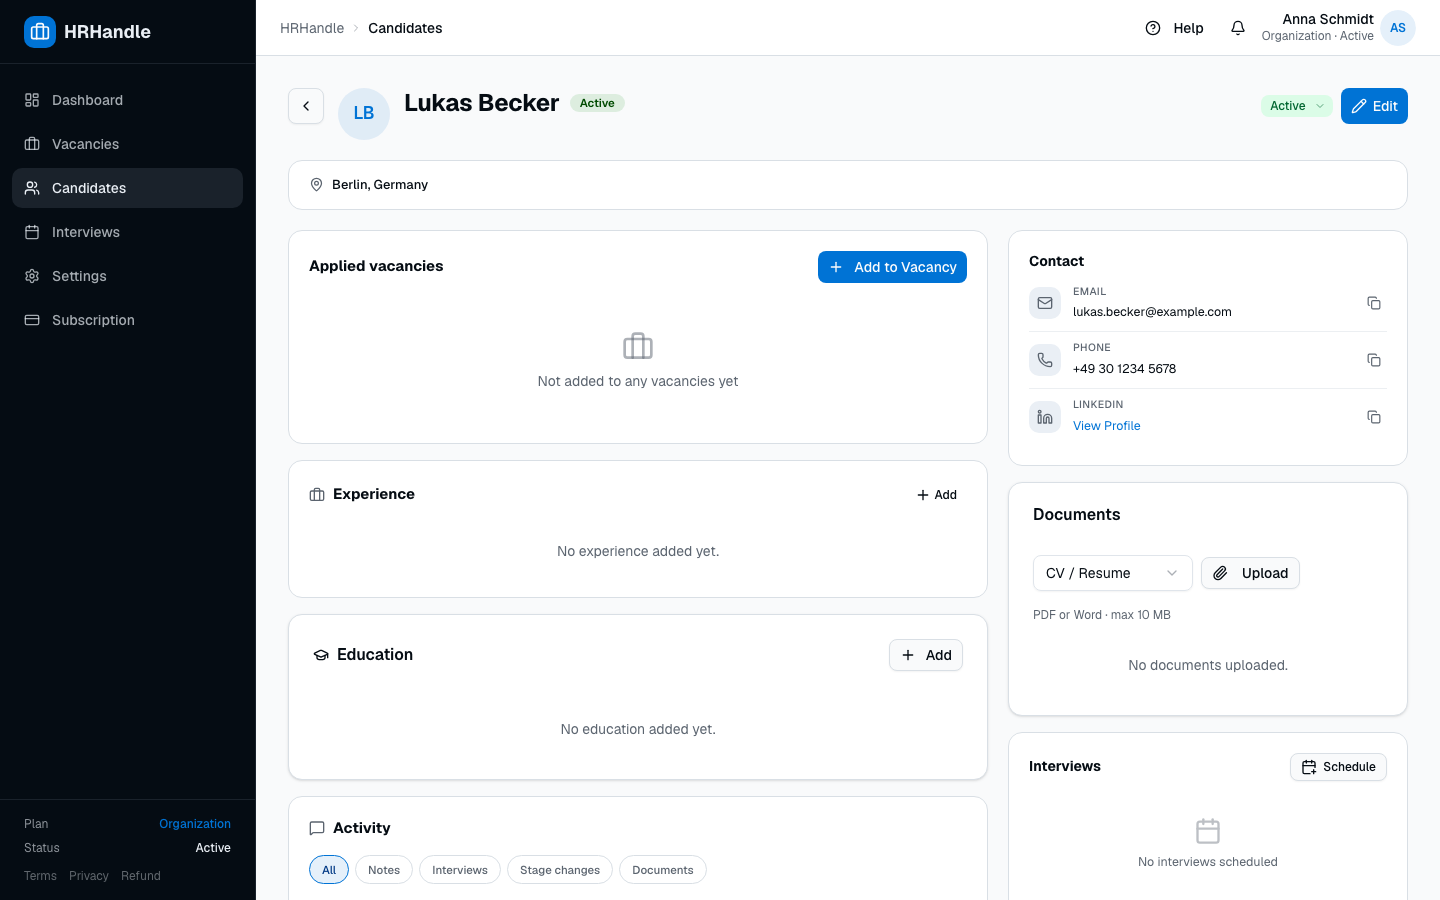
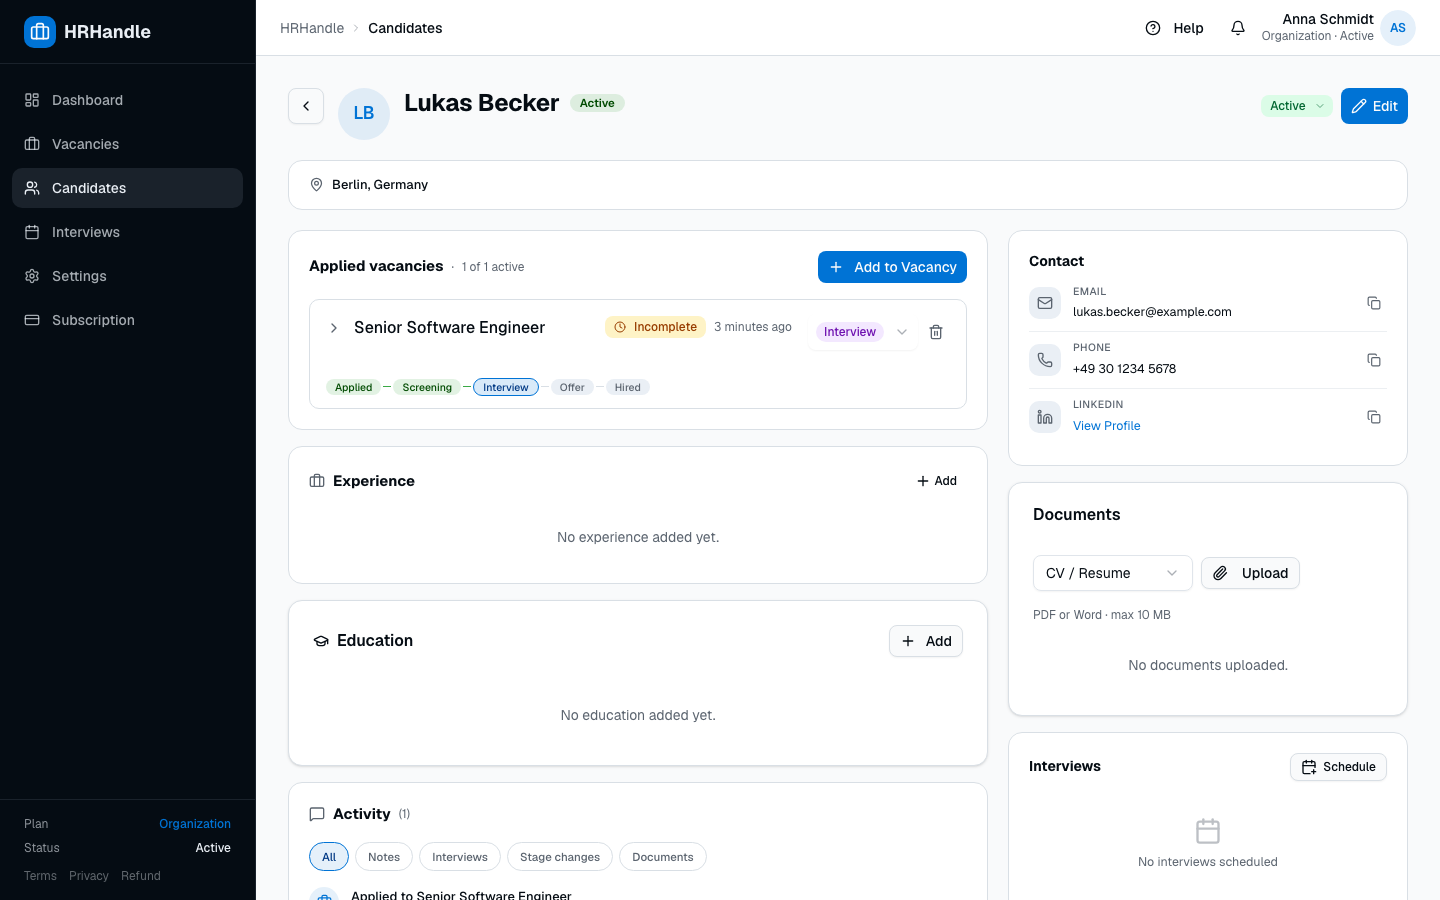
Add pipeline-kanban guide with overview screenshot
- Seed: distribute the four demo candidates across the Senior Software
  Engineer vacancy's pipeline (Applied/Screening/Interview/Offer)
  so the Kanban board has cards in every visible column. Idempotent.
- Guide covers stages, drag-drop, rejection flow, and the hired/general
  status sync.
- Skipping the rejection-dialog screenshot for now: dnd-kit drag-drop
  is not reliably scriptable in headless Chromium. The text describes
  the dialog instead.

diff --git a/scripts/seed-demo-org.ts b/scripts/seed-demo-org.ts
@@ -379,6 +379,88 @@ async function ensureCandidates(orgId: string, creatorId: string): Promise<void>
   }
 }
 
+/**
+ * Distribute the seeded candidates across the Senior Software Engineer
+ * vacancy's pipeline stages, so the Kanban board has visual richness for
+ * screenshots. Idempotent: no-ops if an application already links the
+ * candidate and vacancy.
+ */
+async function ensureApplications(orgId: string, creatorId: string): Promise<void> {
+  // Find the target vacancy (SR Engineer is the showcase one).
+  const { data: vacancy } = await admin
+    .from('vacancies')
+    .select('id')
+    .eq('organization_id', orgId)
+    .eq('title', 'Senior Software Engineer')
+    .is('deleted_at', null)
+    .maybeSingle()
+  if (!vacancy) {
+    console.log('  vacancy not found, skipping applications')
+    return
+  }
+
+  const { data: statuses } = await admin
+    .from('application_statuses')
+    .select('id, code')
+  const byCode = new Map((statuses ?? []).map((s) => [s.code, s.id as string]))
+
+  // Each candidate goes to a specific pipeline stage on the SR Engineer vacancy.
+  const placements: Array<{ email: string; code: string }> = [
+    { email: 'lukas.becker@example.com', code: 'interview' },
+    { email: 'sofia.rossi@example.com', code: 'screening' },
+    { email: 'marco.silva@example.com', code: 'applied' },
+    { email: 'anna.petrov@example.com', code: 'offer' },
+  ]
+
+  for (const p of placements) {
+    const statusId = byCode.get(p.code)
+    if (!statusId) {
+      console.log(`  status not found: ${p.code}`)
+      continue
+    }
+
+    const { data: candidate } = await admin
+      .from('candidates')
+      .select('id')
+      .eq('organization_id', orgId)
+      .eq('email', p.email)
+      .is('deleted_at', null)
+      .maybeSingle()
+    if (!candidate) {
+      console.log(`  candidate not found: ${p.email}`)
+      continue
+    }
+
+    const { data: existing } = await admin
+      .from('applications')
+      .select('id')
+      .eq('organization_id', orgId)
+      .eq('candidate_id', candidate.id)
+      .eq('vacancy_id', vacancy.id)
+      .is('deleted_at', null)
+      .maybeSingle()
+
+    if (existing) {
+      await admin
+        .from('applications')
+        .update({ status_id: statusId, last_status_changed_at: new Date().toISOString() })
+        .eq('id', existing.id)
+      console.log(`  application updated: ${p.email} → ${p.code}`)
+    } else {
+      await admin.from('applications').insert({
+        organization_id: orgId,
+        candidate_id: candidate.id,
+        vacancy_id: vacancy.id,
+        status_id: statusId,
+        applied_at: new Date().toISOString(),
+        last_status_changed_at: new Date().toISOString(),
+        created_by: creatorId,
+      })
+      console.log(`  application created: ${p.email} → ${p.code}`)
+    }
+  }
+}
+
 async function main(): Promise<void> {
   console.log(`Seeding demo org on ${SUPABASE_URL}\n`)
 
@@ -402,6 +484,9 @@ async function main(): Promise<void> {
 
   console.log('\nCandidates:')
   await ensureCandidates(orgId, ownerId)
+
+  console.log('\nApplications (pipeline):')
+  await ensureApplications(orgId, ownerId)
 
   console.log('\n--- DONE ---')
   console.log('Owner login:', OWNER_EMAIL)

diff --git a/scripts/screenshot-config.ts b/scripts/screenshot-config.ts
@@ -107,6 +107,30 @@ export const SHOTS: ShotConfig[] = [
       },
     ],
   },
+  // ---- pipeline-kanban ----
+  {
+    name: 'pipeline-kanban-overview',
+    url: '/vacancies',
+    output: 'public/guide/screenshots/pipeline-kanban-overview.png',
+    preActions: async (page) => {
+      // Find the Senior Software Engineer vacancy and navigate to its pipeline.
+      await page.waitForSelector('table a[href^="/vacancies/"]:not([href="/vacancies/new"])', {
+        timeout: 15_000,
+      })
+      const href = await page.evaluate(() => {
+        const links = Array.from(
+          document.querySelectorAll('table a[href^="/vacancies/"]')
+        ) as HTMLAnchorElement[]
+        const target = links.find((a) => (a.textContent || '').includes('Senior Software Engineer'))
+        return target?.getAttribute('href') ?? null
+      })
+      if (!href) throw new Error('Could not find Senior Software Engineer row')
+      const baseUrl =
+        process.env.SCREENSHOT_BASE_URL ?? 'https://staging.hrhandle.com'
+      await page.goto(`${baseUrl}${href}/pipeline`, { waitUntil: 'networkidle' })
+      await page.waitForTimeout(800)
+    },
+  },
   // ---- manage-candidates ----
   {
     name: 'manage-candidates-list',
